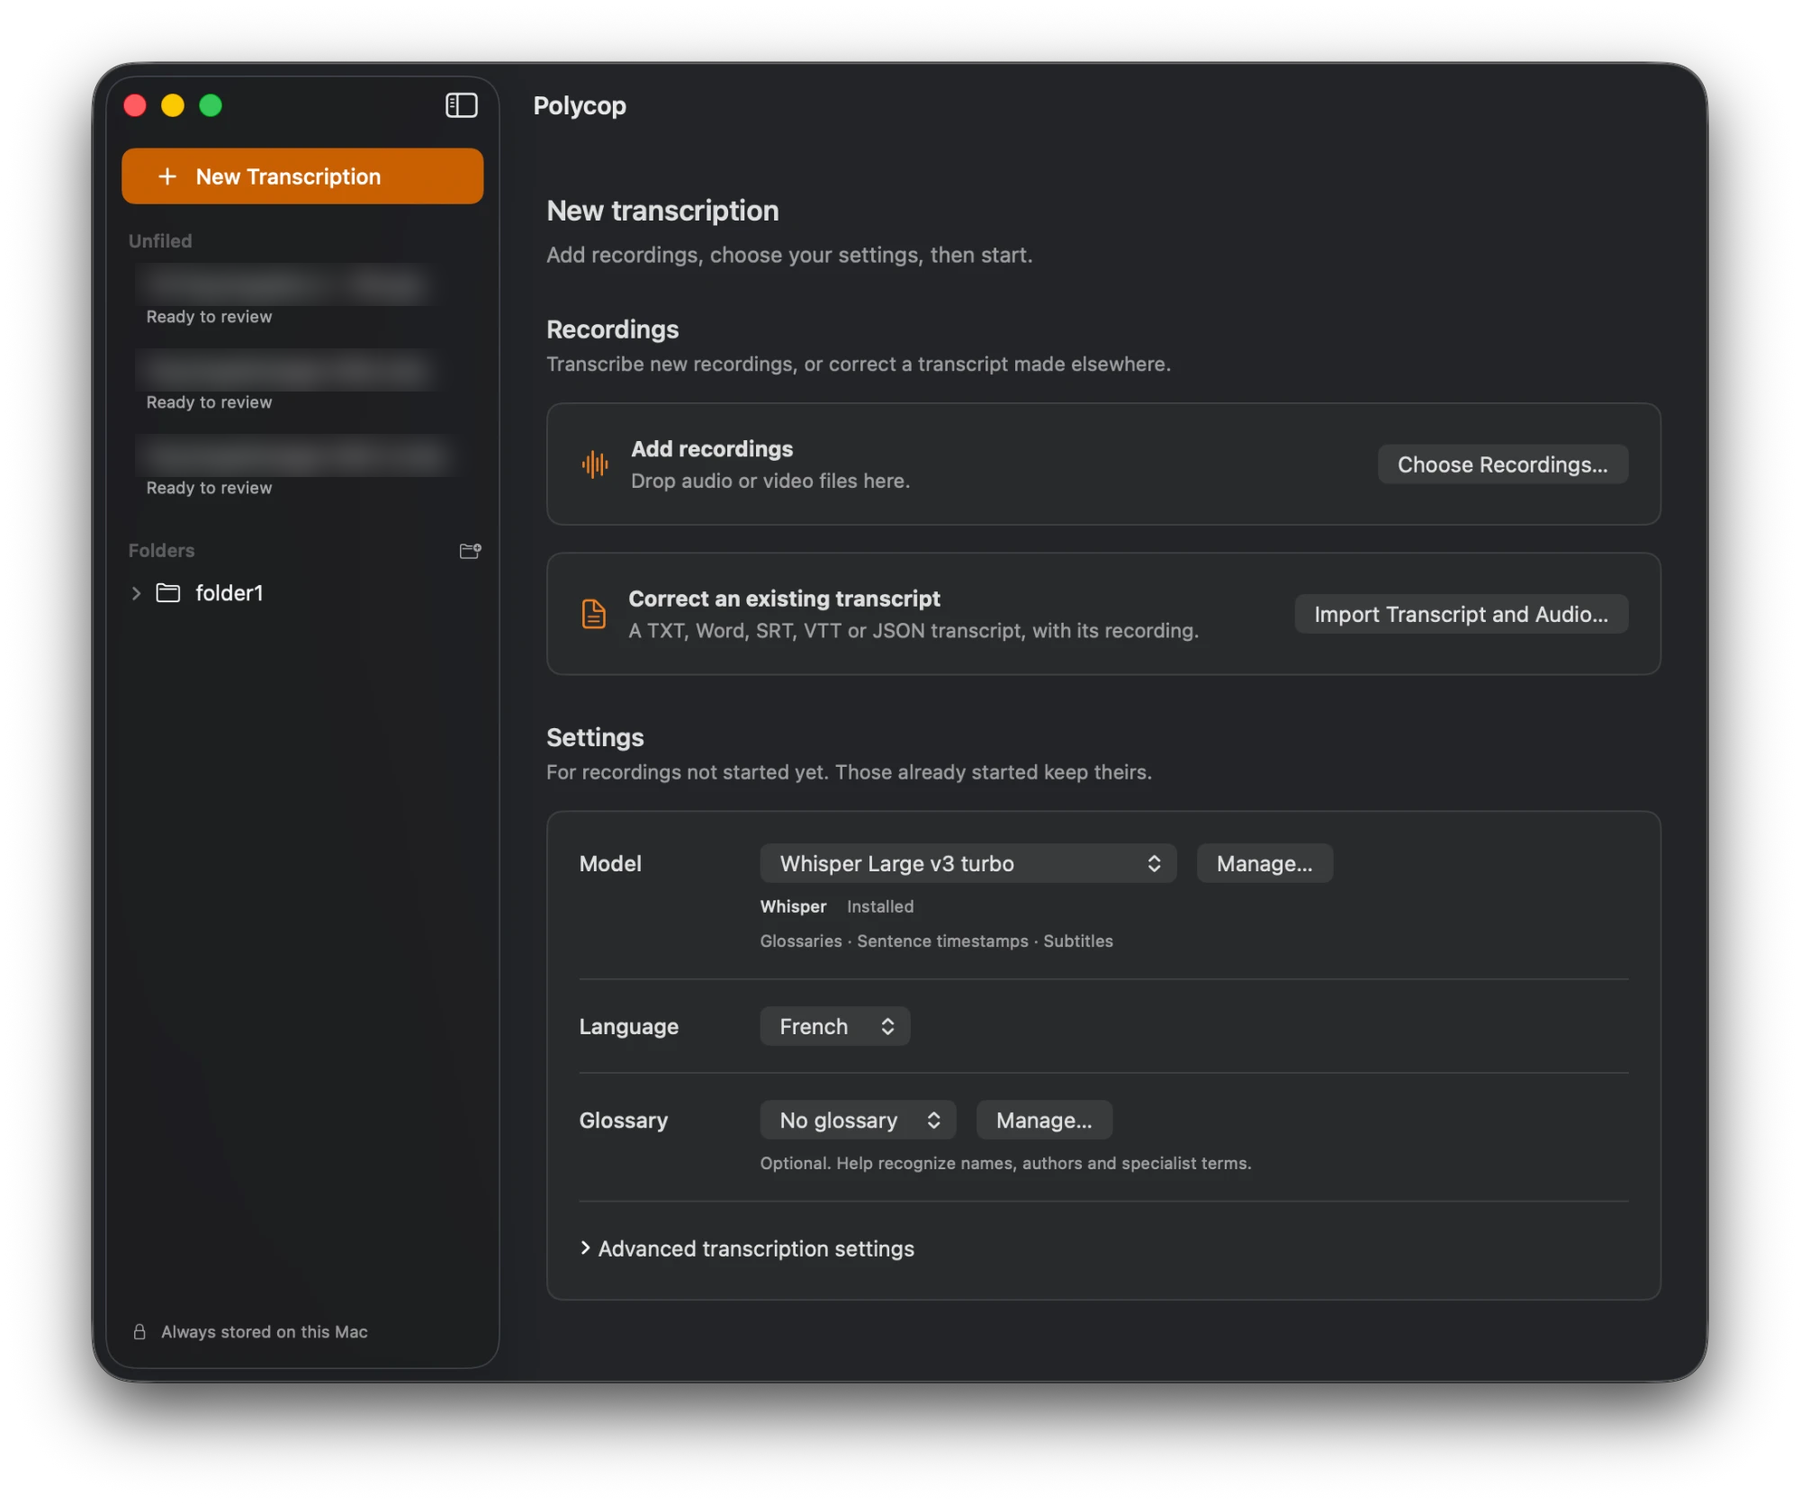
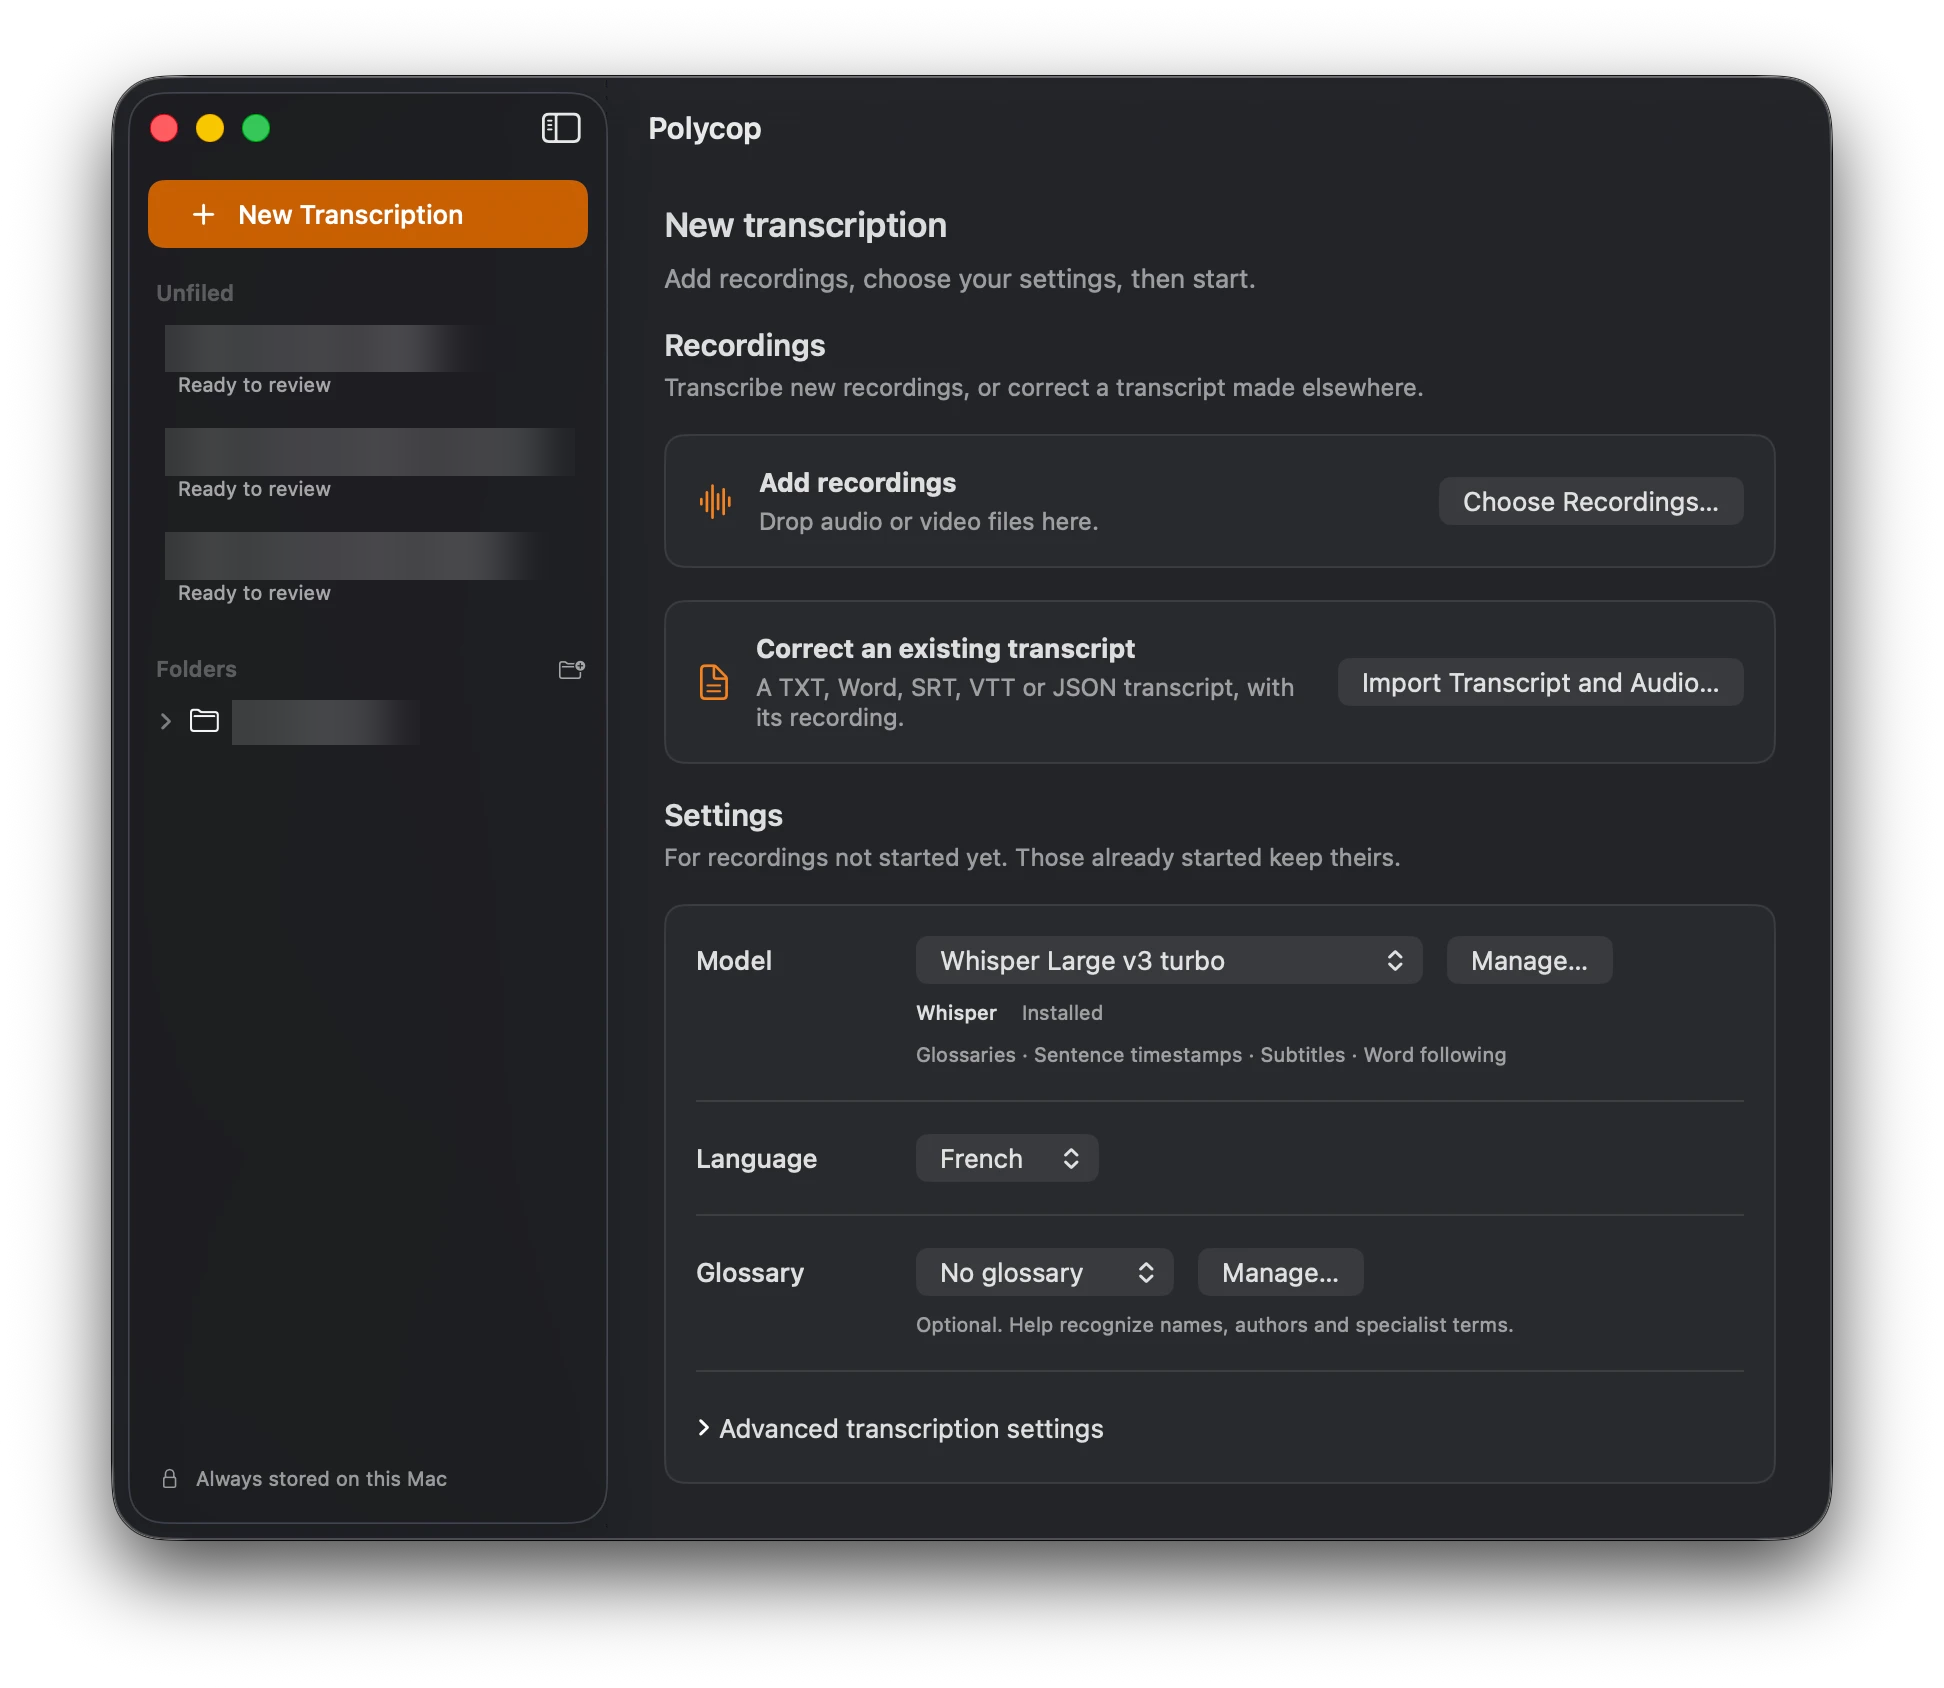
retake the README screenshot and add one of a transcript (#116)
The model line now reads as the app does, with word following. Names,
the transcript text and the export path are blurred, and the files carry
no metadata.

diff --git a/README.md b/README.md
@@ -55,6 +55,8 @@ unless they agree to more.
 
 ### Editing
 
+![A transcript in Polycop, with the audio player and the export](.github/screenshot-editing.png)
+
 * **Correction while listening.** Click a timestamp to hear the passage. In a
   transcript timed word by word (Whisper, and Qwen3-ASR with its aligner),
   Option-click a word or press Option Command P to play from the text cursor,
